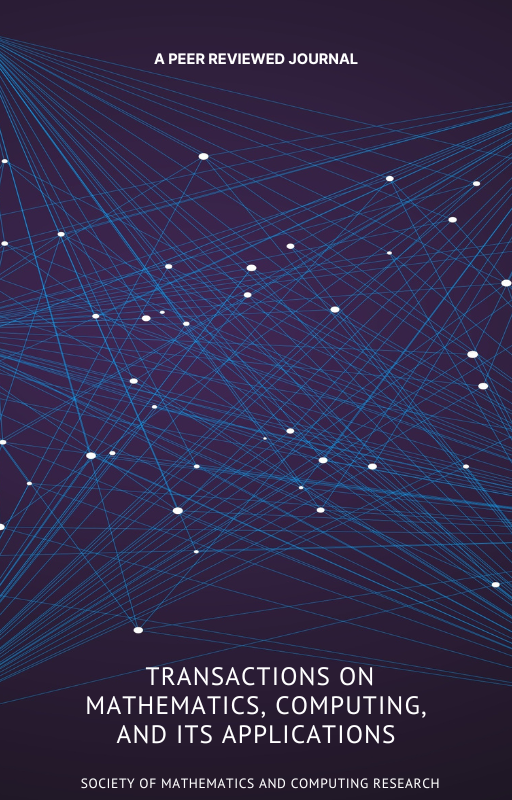
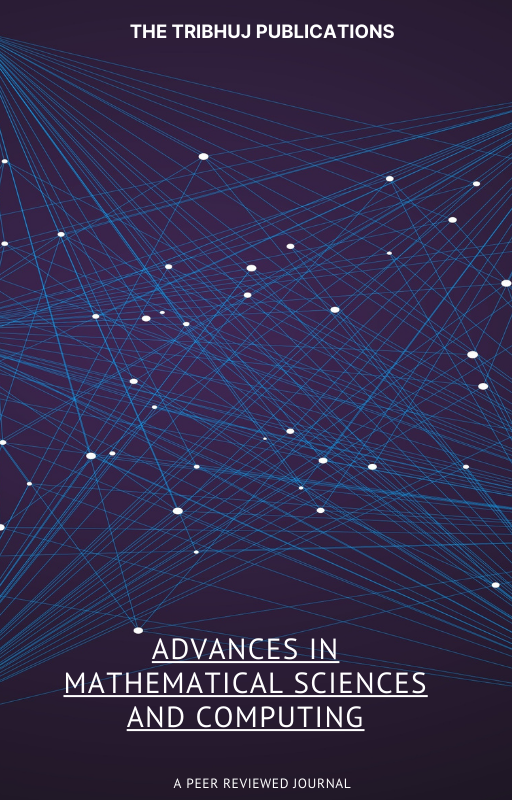
restructuring

diff --git a/index.html b/index.html
@@ -3,18 +3,34 @@
 <head>
     <meta charset="UTF-8">
     <meta name="viewport" content="width=device-width, initial-scale=1.0">
-    <title>Multimedia Tools and Applications</title>
+    <title> Advances in Mathematical Sciences and Computing</title>
     <link rel="stylesheet" href="assets/styles.css">
     <style>
 /* General Styles */
+/* Add margins to the body */
+@import url('https://fonts.googleapis.com/css2?family=Poppins:wght@300;400;600&display=swap');
+
+/* General Styles */
 body {
-    font-family: Arial, sans-serif;
+    font-family: 'Poppins', sans-serif;
     margin: 0;
     padding: 0;
-    background-color: white;
-    color: black;
+    background: linear-gradient(to right, #eef2f3, #ffffff); /* Soft gradient */
+    color: #333;
+    text-align:justify;
 }
-/* Responsive Header */
+
+
+/* Add left and right margins to the main content */
+main {
+    margin: 0 5%; /* Adjust the percentage as needed */
+}
+
+/* Add margins to the instructions section */
+body h1, body h2, body h3, body p, body ul {
+    margin-left: 5%;
+    margin-right: 5%;
+}
 header {
     display: flex;
     justify-content: space-between;
@@ -114,46 +130,72 @@ header {
 }
 
 
-  .secondary-nav {
+ /* General Navigation Bar Styling */
+.secondary-nav {
     display: flex;
-    flex-wrap: wrap;
+    align-items: center;
     justify-content: space-between;
-    padding: 10px 5%;
-    background-color: white;
-    border-bottom: 1px solid #cce4f7;
+    flex-wrap: wrap;
+    padding: 12px 5%;
+    background: linear-gradient(135deg, #f8f9fa, #e3f2fd); /* Soft gradient */
+    border-bottom: 2px solid #cce4f7;
+    box-shadow: 0 4px 8px rgba(0, 0, 0, 0.08); /* Soft shadow */
+    border-radius: 8px;
 }
 
+/* Links inside Navigation */
 .secondary-nav a {
     text-decoration: none;
-    font-weight: bold;
+    font-weight: 600;
+    font-size: 16px;
     color: #0a4d56;
-    padding: 10px;
-    display: block;
+    padding: 12px 15px;
+    transition: all 0.3s ease-in-out;
+    border-radius: 5px;
 }
 
-  .dropdown {
+/* Hover Effect */
+.secondary-nav a:hover {
+    background-color: #0078A0;
+    color: white;
+    transform: scale(1.05); /* Slight zoom effect */
+}
+
+/* Dropdown Menu */
+.dropdown {
     display: none;
     position: absolute;
     top: 100%;
     left: 0;
     background-color: white;
-    box-shadow: 0px 4px 6px rgba(0, 0, 0, 0.1);
-    border-radius: 5px;
+    box-shadow: 0px 5px 10px rgba(0, 0, 0, 0.12);
+    border-radius: 8px;
     z-index: 1000;
-    min-width: 220px;
+    min-width: 240px;
+    padding: 8px 0;
 }
 
+/* Dropdown Links */
 .dropdown a {
-    padding: 10px;
+    padding: 12px 18px;
     display: block;
     color: #0a4d56;
     white-space: nowrap;
+    font-size: 15px;
+    transition: all 0.3s ease-in-out;
 }
 
+/* Dropdown Hover Effect */
 .dropdown a:hover {
-    background-color: #005580;
+    background: linear-gradient(90deg, #0078A0, #005580);
     color: white;
 }
+
+/* Show dropdown on hover */
+.secondary-nav li:hover .dropdown {
+    display: block;
+}
+
 
 
         .overview {
@@ -180,6 +222,24 @@ header {
         text-align: center;
     }
 }
+
+
+html {
+            scroll-behavior: smooth; /* Enables smooth scrolling */
+        }
+        
+        .back-to-top {
+            position: fixed;
+            bottom: 20px;
+            right: 20px;
+            background: #007bff;
+            color: white;
+            padding: 10px 15px;
+            border-radius: 5px;
+            text-decoration: none;
+            font-size: 14px;
+        }
+
     </style>
 </head>
 <body>
@@ -187,107 +247,28 @@ header {
         <div class="logo">The Tribhuj</div>
     </header>
     <main>
-        <section class="journal-intro">
-            <div class="cover">
-                <img src="journal-cover.png" alt="Journal Cover">
-            </div>
-            <div class="info">
-                <h1> Journal Name </h1>
-                <p class="subtitle">A Peer-Reviewed International Journal</p>
-                <button class="submit-btn">Submit your manuscript </button>
-            </div>
-        </section>
-        
-<nav class="secondary-nav">
-        <div>
-            <a href="#" class="dropdown-btn">About ▼</a>
-            <div class="dropdown">
-                <a href="#aimsscope">Aims and Scope</a>
-                <a href="#editorial-board">Editorial Board</a>
-                <a href="#editorial-policies">Editorial Policies, Ethics, and Disclosures</a>
-                <a href="#">Contact the Journal</a>
-            </div>
-            
-            
-        </div>
-            <a href="#" class="dropdown-btn">Articles</a>      
-        </div>
-        
-        <div>
-            <a href="https://vikas-srivastava-1729.github.io/site/author-guidelines.html">For Authors</a>
-        
-            
-             </div>
-            <a href="#" class="dropdown-btn">Contact Journal</a>      
-        </div>
-</nav>       
- <script>
-    document.addEventListener("DOMContentLoaded", function() {
-        const dropdownButtons = document.querySelectorAll(".dropdown-btn");
-        const dropdowns = document.querySelectorAll(".dropdown");
+       
 
-        dropdownButtons.forEach(button => {
-            button.addEventListener("click", function(event) {
-                event.preventDefault();
-                dropdowns.forEach(dropdown => {
-                    if (dropdown !== this.nextElementSibling) {
-                        dropdown.style.display = "none";
-                    }
-                });
-                let dropdownMenu = this.nextElementSibling;
-                dropdownMenu.style.display = (dropdownMenu.style.display === "block") ? "none" : "block";
-            });
-        });
-
-        document.addEventListener("click", function(event) {
-            if (!event.target.closest(".secondary-nav")) {
-                dropdowns.forEach(dropdown => dropdown.style.display = "none");
-            }
-        });
-
-        // Close dropdown when clicking a submenu item
-        document.querySelectorAll(".dropdown a").forEach(item => {
-            item.addEventListener("click", function() {
-                dropdowns.forEach(dropdown => dropdown.style.display = "none");
-            });
-        });
-    });
-</script>
 
  <div class="info-box">
      <section id="aimsscope">
-            <h2>Aims and Scope</h2>
-            <p>Transactions on Mathematics, Computing, and its Applications is a broad-scoped peer-reviewed journal published by Society of Mathematics and Computing Research covering all mainstream branches of pure mathematics, applied mathematics, theoretical computer science, and scientific computing. <br> <br>
-            
-The journal welcomes a variety of article types: Research Manuscript, Research Letters, Letters to the Editor and Short Communications, Position Papers, Review Articles, Technical Notes, Special Issues and Special Sections A paper should be a significant contribution, well-written, and of interest to a wide audience. All manuscripts will undergo a strict refereeing process; acceptance for publication is based on at least two positive reviews from experts in the field. Submission of a manuscript acknowledges that the manuscript is original and is not, in whole or in part, published or submitted for publication elsewhere. Manuscripts must be written in English. It is the author's responsibility to make sure her/his manuscript is written in clear, unambiguous and grammatically correct language.
-</p>
-        </section>
-        </div>
-        
-        
-        
-         <div class="info-box">
-     <section id="editorial-board">
-            <h2>Editorial Board</h2>
-            <p>
-</p>
-        </section>
-        </div>
-        
-        
-           <div class="info-box">
-     <section id="editorial-policies">
-            <h2>Editorial Policies, Ethics, and Disclosures</h2>
-            <p>
-            
-The journal maintains a strong commitment to research integrity and ethical publishing. All published content undergoes a rigorous single-anonymous peer review process to ensure quality and credibility.<br> <br>
-As a member of the Committee on Publication Ethics (COPE), the journal adheres to its principles for handling research misconduct. Any allegations of misconduct are thoroughly investigated to uphold the integrity of academic research. <br> <br>
-To prevent unethical practices, all submissions may be screened using plagiarism detection software. If plagiarism is detected, the journal follows COPE’s established guidelines. <br> <br>
-A clear competing interest policy is in place to ensure transparency in the publication process. <br> <br>
-Authors are required to comply with international, national, and institutional standards for research reporting. This is particularly crucial for studies involving human or animal subjects, their data, biological materials, and informed consent. 
+            <h2>The Tribhuj</h2>
+            <h1> <a href="https://thetribhuj.com/amsc/"> Click Here to Redirect to the Journal Website "Advances in Mathematical Sciences and Computing" </a> </h1>
+            <p>The Tribhuj is a dynamic and forward-thinking academic publishing house dedicated to advancing knowledge and innovation in Mathematics, Computing, and their applications. Our mission is to provide a high-quality platform for researchers, academicians, and professionals to share groundbreaking discoveries and developments in these fields. We are committed to maintaining the highest standards of academic integrity and excellence by ensuring rigorous peer-review processes and ethical publication practices. <br><br>
+
+Our flagship journal, Advances in Mathematical Sciences and Computing, is a broad-scoped, peer-reviewed publication covering mainstream branches of pure mathematics, applied mathematics, theoretical computer science, and scientific computing. This journal welcomes a diverse range of article types, including research manuscripts, research letters, position papers, review articles, technical notes, and special issues. Every submission undergoes a stringent review process to ensure its significance, clarity, and contribution to the academic community. <br><br>
+
+At The Tribhuj, we envision a future where scholarly communication thrives in an open and accessible manner. As part of our long-term commitment to academia, we plan to expand our portfolio by launching more journals across interdisciplinary domains, fostering a global exchange of ideas and research. Our goal is to support innovation and collaboration among researchers by providing a platform that upholds quality, transparency, and scholarly excellence. <br><br>
+
+We invite researchers, institutions, and academicians to join us in this endeavor as we continue to grow and contribute to the advancement of knowledge through our publishing initiatives.
+<br><br>
 
 </p>
         </section>
+        </div>
+        
+        
+        
         </div>
     </main>
 </body>

diff --git a/amsc/author-guidelines.html b/amsc/author-guidelines.html
@@ -330,19 +330,18 @@ html {
     <p>Once proofed, articles are published online and assigned a DOI for citation. No further changes can be made after online publication.</p>
 
     <h2>Article Charges</h2>
-    <p>The journal does not charge submission or publication fees. Authors may opt for Open Access, which incurs an Article Processing Fee.</p>
+    <p>TThe journal requires a publication fee for accepted manuscripts. The journal will publish the research works as Open Access, which involves an Article Processing Fee.</p>
     <h3>Benefits of Open Access</h3>
     <ul>
-        <li>Increased researcher engagement: Immediate access worldwide.</li>
-        <li>Higher visibility: OA articles are accessed 4 times more and cited 1.7 times more.</li>
-        <li>Compliance with funding mandates.</li>
+        <li> Wider Reach: Immediate global access enhances researcher engagement.</li>
+        <li>Greater Visibility: Open Access articles receive four times more views and 1.7 times more citations.</li>
     </ul>
 
     <h2>Manuscript Submission</h2>
-    <p>Submission of a manuscript implies: that the work described has not been published before; that it is not under consideration for publication anywhere else; that its publication has been approved by all co-authors, if any, as well as by the responsible authorities – tacitly or explicitly – at the institute where the work has been carried out. The publisher will not be held legally responsible should there be any claims for compensation.</p>
+    <p>By submitting a manuscript, authors confirm that the work has not been previously published, is not under review elsewhere, and has received approval from all co-authors (if applicable) and the relevant authorities at the institution where the research was conducted. The publisher bears no legal responsibility for any compensation claims that may arise.</p>
 
     <h3>Permissions</h3>
-    <p>Authors must obtain permission for any previously published figures, tables, or text. Authors wishing to include figures, tables, or text passages that have already been published elsewhere are required to obtain permission from the copyright owner(s) for both the print and online format and to include evidence that such permission has been granted when submitting their papers. Any material received without such evidence will be assumed to originate from the authors.</p>
+    <p>Authors must secure permission for any figures, tables, or text that have been previously published. If they intend to use such content in their manuscript, they must obtain authorization from the copyright holder(s) for both print and online formats and provide proof of permission upon submission. Any material submitted without proper documentation will be considered the original work of the authors.</p>
 
     <h3>Online Submission</h3>
     <p>Submit manuscripts via the “Submit manuscript” link, following on-screen instructions.</p>
@@ -367,7 +366,7 @@ html {
     <p>The journal follows standard research data policy, encouraging data sharing. Sharing of all relevant research data is strongly encouraged and authors must add a Data Availability Statement to original research articles.</p>
 
     <h3>Disclosures and Declarations</h3>
-    <p>All authors are requested to include information regarding sources of funding, financial or non-financial interests, study-specific approval by the appropriate ethics committee for research involving humans and/or animals, informed consent if the research involved human participants, and a statement on welfare of animals if the research involved animals (as appropriate).</p>
+    <p>Authors are required to provide details on funding sources, any financial or non-financial interests, ethical approval from the relevant committee for studies involving humans and/or animals, informed consent for research involving human participants, and a statement on animal welfare when applicable.</p>
         <a href="#top" class="back-to-top">↑ Back to Top</a>
 </body>
 </html>

diff --git a/amsc/index.html b/amsc/index.html
@@ -311,7 +311,7 @@ html {
  <div class="info-box">
      <section id="aimsscope">
             <h2>Aims and Scope</h2>
-            <p>Transactions on Mathematics, Computing, and its Applications is a broad-scoped peer-reviewed journal published by The Tribhuj covering all mainstream branches of pure mathematics, applied mathematics, theoretical computer science, and scientific computing. <br> <br>
+            <p>Advances in Mathematical Sciences and Computing is a broad-scoped peer-reviewed journal published by The Tribhuj covering all mainstream branches of pure mathematics, applied mathematics, theoretical computer science, and scientific computing. <br> <br>
             
 The journal welcomes a variety of article types: Research Manuscript, Research Letters, Letters to the Editor and Short Communications, Position Papers, Review Articles, Technical Notes, Special Issues and Special Sections A paper should be a significant contribution, well-written, and of interest to a wide audience. All manuscripts will undergo a strict refereeing process; acceptance for publication is based on at least two positive reviews from experts in the field. Submission of a manuscript acknowledges that the manuscript is original and is not, in whole or in part, published or submitted for publication elsewhere. Manuscripts must be written in English. It is the author's responsibility to make sure her/his manuscript is written in clear, unambiguous and grammatically correct language.
 </p>
@@ -332,15 +332,18 @@ The journal welcomes a variety of article types: Research Manuscript, Research L
            <div class="info-box">
      <section id="editorial-policies">
             <h2>Editorial Policies, Ethics, and Disclosures</h2>
-            <p>
-            
-The journal maintains a strong commitment to research integrity and ethical publishing. All published content undergoes a rigorous single-anonymous peer review process to ensure quality and credibility.<br> <br>
-The journal adheres to Committee on Publication Ethics (COPE) principles for handling research misconduct. Any allegations of misconduct are thoroughly investigated to uphold the integrity of academic research. <br> <br>
-To prevent unethical practices, all submissions may be screened using plagiarism detection software. If plagiarism is detected, the journal follows COPE’s established guidelines. <br> <br>
-A clear competing interest policy is in place to ensure transparency in the publication process. <br> <br>
-Authors are required to comply with international, national, and institutional standards for research reporting. This is particularly crucial for studies involving human or animal subjects, their data, biological materials, and informed consent. 
+ <p>  
+The journal upholds a strong commitment to research integrity and ethical publishing. All submitted content undergoes a thorough single-anonymous peer review process to maintain high quality and credibility. <br> <br>  
 
+The journal follows the principles set by the Committee on Publication Ethics (COPE) for addressing research misconduct. Any claims of misconduct are carefully reviewed to preserve the integrity of academic research. <br> <br>  
+
+To prevent unethical practices, all submissions may be checked using plagiarism detection software. In cases where plagiarism is identified, the journal adheres to COPE’s established guidelines. <br> <br>  
+
+A well-defined competing interest policy ensures transparency throughout the publication process. <br> <br>  
+
+Authors must adhere to international, national, and institutional research reporting standards, particularly for studies involving human or animal subjects, their data, biological materials, and informed consent.  
 </p>
+
         </section>
         </div>
     </main>
